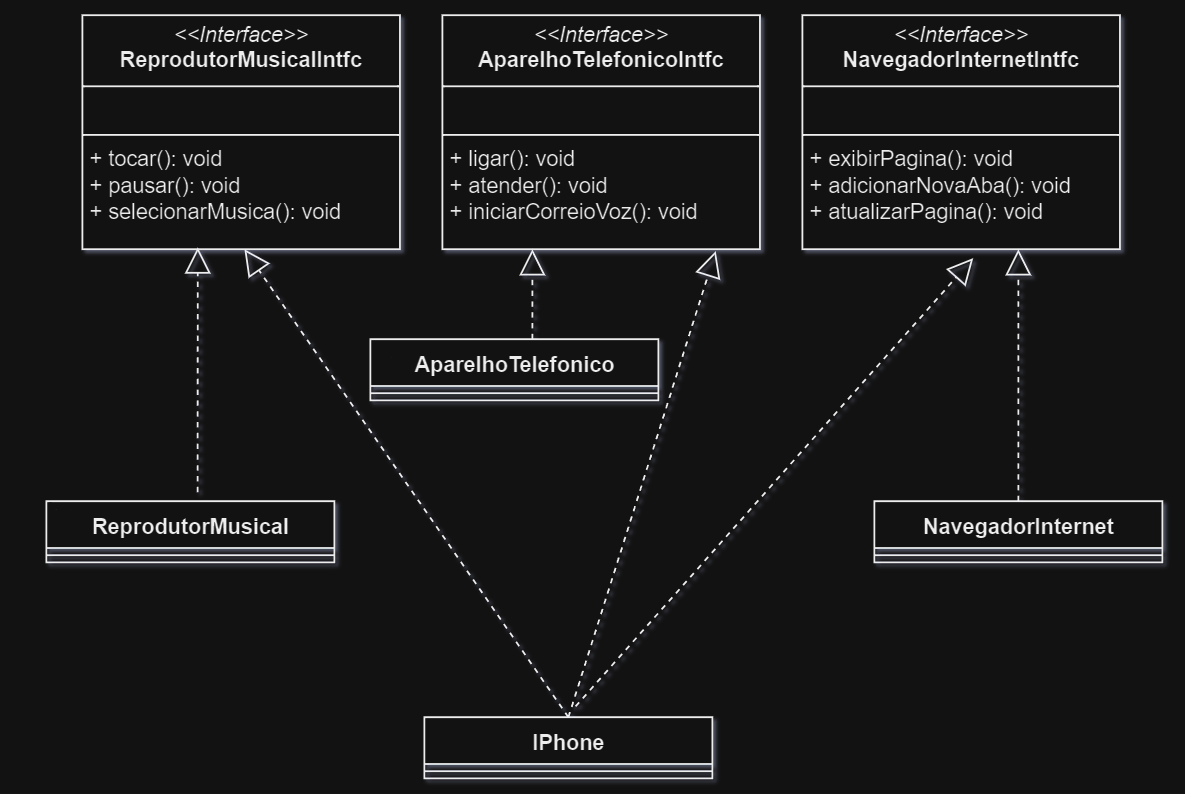
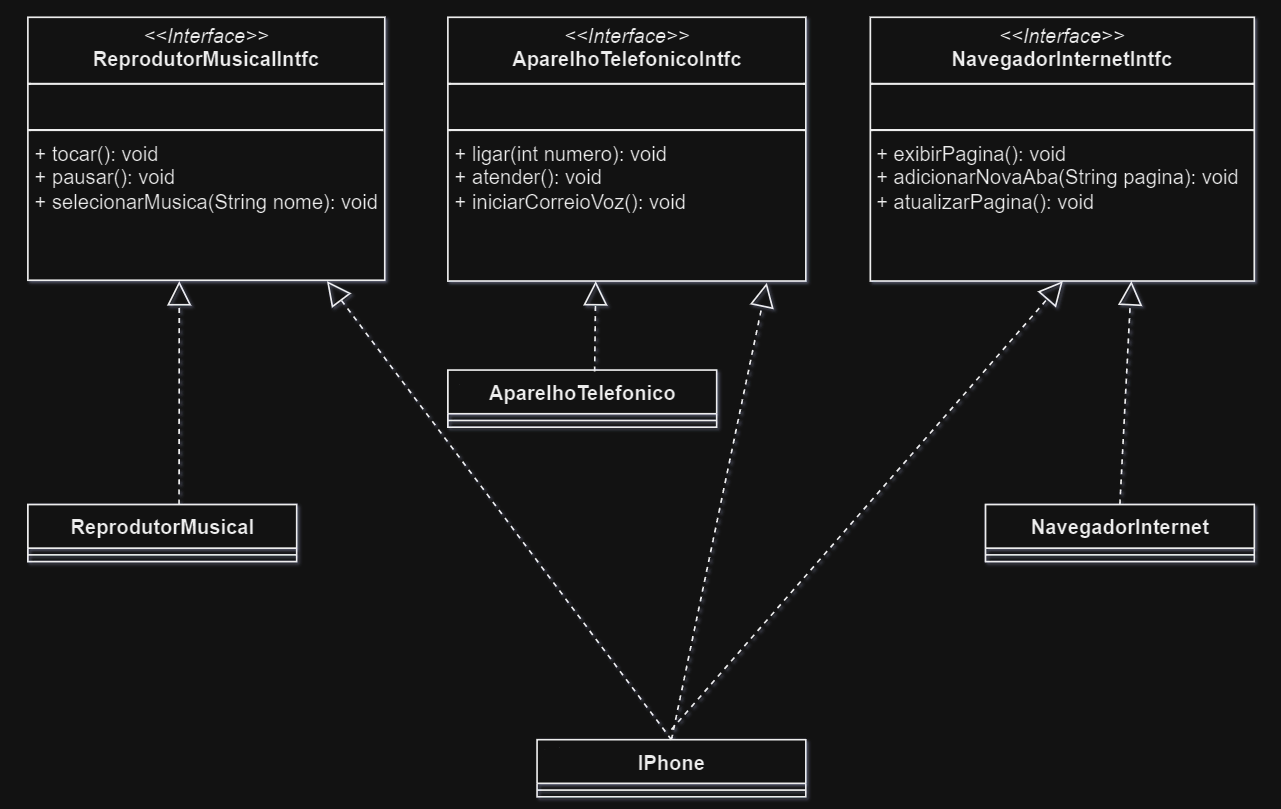
desafio dio poo java/uml versao finalizada

diff --git a/src/navegadorinternet/NavegadorInternetAbst.java b/src/navegadorinternet/NavegadorInternetAbst.java
@@ -8,8 +8,8 @@ public abstract class NavegadorInternetAbst implements NavegadorInternetIntfc {
     }
   
     @Override
-    public void adicionarNovaAba() {
-      System.out.println("Adicionando Pagina.");
+    public void adicionarNovaAba(String pagina) {
+      System.out.println(pagina + " adicionada.");
     }
   
     @Override

diff --git a/src/navegadorinternet/NavegadorInternet.java b/src/navegadorinternet/NavegadorInternet.java
@@ -8,8 +8,8 @@ public class NavegadorInternet implements NavegadorInternetIntfc {
     }
   
     @Override
-    public void adicionarNovaAba() {
-      System.out.println("Adicionando Pagina.");
+    public void adicionarNovaAba(String pagina) {
+      System.out.println(pagina + " adicionada.");
     }
   
     @Override

diff --git a/src/IPhone.java b/src/IPhone.java
@@ -40,8 +40,8 @@ public class IPhone implements ReprodutorMusicalIntfc, AparelhoTelefonicoIntfc, 
   }
 
   @Override
-  public void adicionarNovaAba() {
-    System.out.println("Adicionando Pagina.");
+  public void adicionarNovaAba(String pagina) {
+    System.out.println(pagina + " adicionada.");
   }
 
   @Override

diff --git a/src/Main.java b/src/Main.java
@@ -13,7 +13,7 @@ public class Main {
     
         novoIPhone.exibirPagina();
         novoIPhone.atualizarPagina();
-        novoIPhone.adicionarNovaAba();
+        novoIPhone.adicionarNovaAba("Pagina 2");
       }
     }
   

diff --git a/src/navegadorinternet/NavegadorInternetIntfc.java b/src/navegadorinternet/NavegadorInternetIntfc.java
@@ -4,7 +4,7 @@ public interface NavegadorInternetIntfc {
 
     void exibirPagina();
 
-    void adicionarNovaAba();
+    void adicionarNovaAba(String pagina);
   
     void atualizarPagina();
 }
